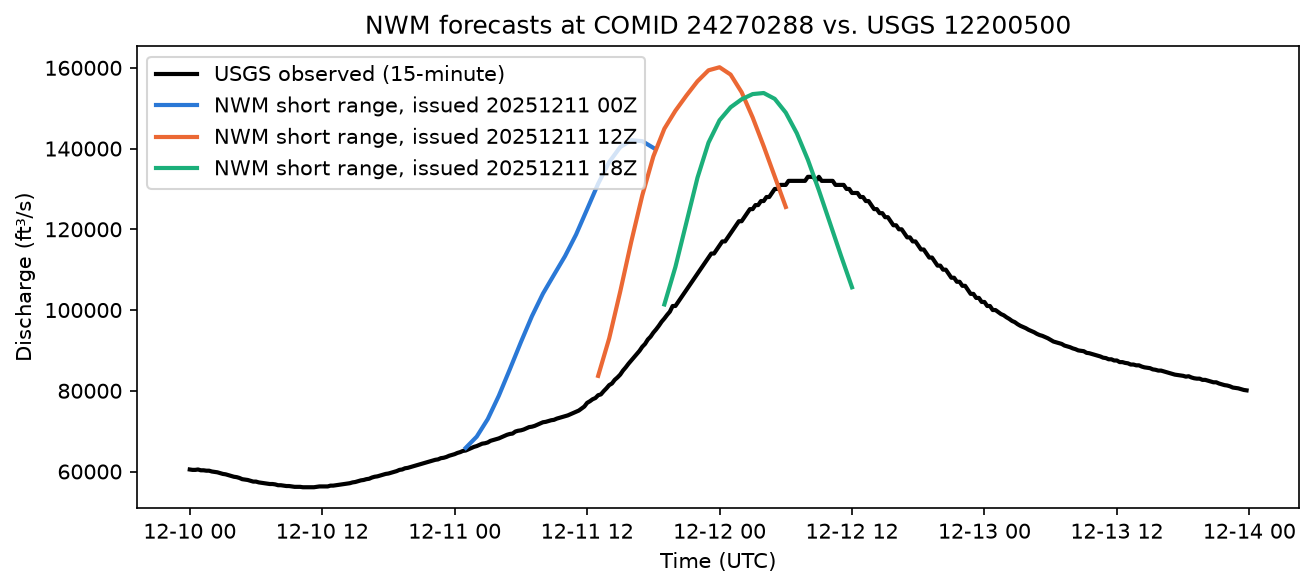
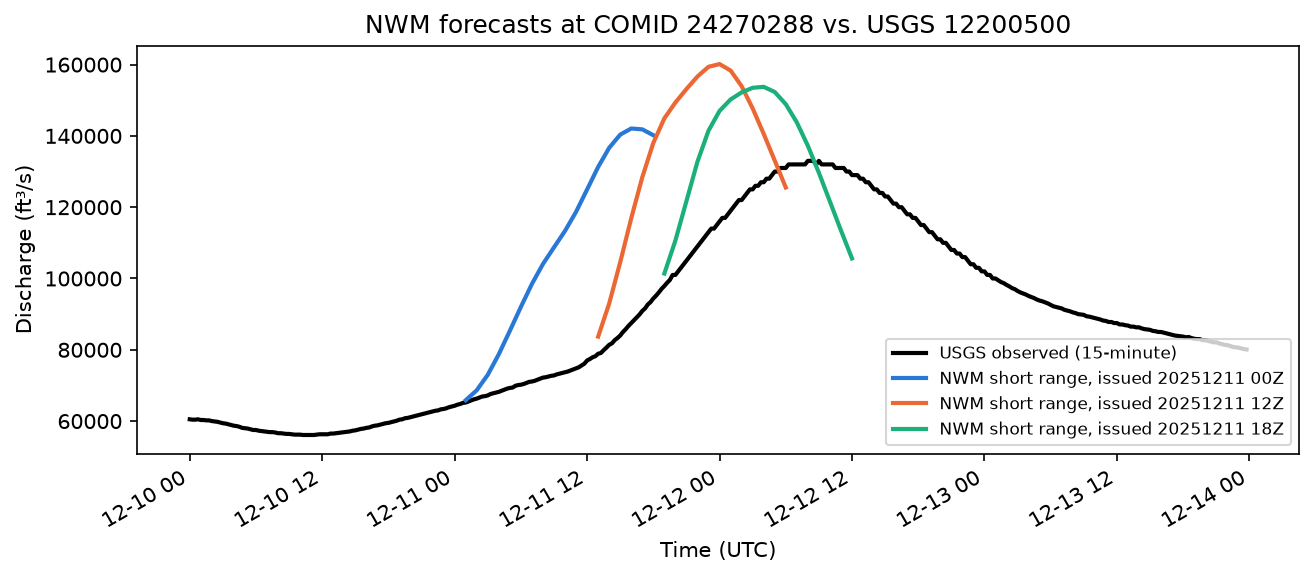
Module 4: fix learner-review blockers and content-review should-fixes

diff --git a/04-federal-water-data-synthesis/02_synthesize_river_data.md b/04-federal-water-data-synthesis/02_synthesize_river_data.md
@@ -4,7 +4,7 @@ One way that these datasets are leveraged to improve hydrologic understanding an
 
 ## Flood event context
 
-We are going to explore a flood from December 2025 in the Skagit River in Washington state. A long-lasting Category 5 atmospheric river brought heavy precipitation to the Pacific Northwest causing widespread flooding (see [more from NASA's Scientific Visualization Studio](https://svs.gsfc.nasa.gov/5596)). On December 12, 2025, the Skagit River near Mt Vernon surpassed a 1990 record peak (Source: [NOAA gauge information](https://water.noaa.gov/gauges/MVEW1)). While our lesson will be focused on exploring the flood through the lens of data, it is important to remember that floods impact real people and can have devastating impacts. The December 2025 Skagit River historic flooding event led to evacuation orders affecting more than 75,000 people in Skagit County (Source: [Northwest Public Broadcasting](https://www.nwpb.org/local/2025-12-11/100-000-evacuated-in-historic-skagit-valley-flood-in-washington-state)), and significantly damaged homes and businesses.
+We are going to explore a flood from December 2025 in the Skagit River in Washington state. A long-lasting Category 5 atmospheric river brought heavy precipitation to the Pacific Northwest causing widespread flooding (see [more from NASA's Scientific Visualization Studio](https://svs.gsfc.nasa.gov/5596)). On December 12, 2025, the Skagit River near Mt Vernon passed its 1990 record crest (stage) (Source: [NOAA gauge information](https://water.noaa.gov/gauges/MVEW1)). While our lesson will be focused on exploring the flood through the lens of data, it is important to remember that floods impact real people and can have devastating impacts. The December 2025 Skagit River historic flooding event led to evacuation orders affecting more than 75,000 people in Skagit County (Source: [Northwest Public Broadcasting](https://www.nwpb.org/local/2025-12-11/100-000-evacuated-in-historic-skagit-valley-flood-in-washington-state)), and significantly damaged homes and businesses.
 
 :::{figure} https://svs.gsfc.nasa.gov/vis/a000000/a005500/a005596/PacificNorthwestFlooding_Dec2025_1920x1080.png
 :alt: Map of the North Pacific from Japan to North America. Water vapor is shaded from blue (dry) to yellow (moist); a labeled "Atmospheric River" band of moist air stretches from the tropics to the coast of Washington and British Columbia. An inset along the coast shades precipitation totals, heaviest (red) over British Columbia and western Washington.
@@ -50,7 +50,7 @@ Each agency describes "the river at Mount Vernon" with its own {term}`location i
 | NOAA | National Water Model ({term}`NWM`) | {term}`feature_id` / {term}`NHDPlus` {term}`COMID` `24270288` | A stream segment (reach) in the NHDPlus network |
 | NASA | SWOT RiverSP | {term}`SWORD` {term}`reach <Reach>` `78310800031` | A ~10 km reach of the SWOT River Database (SWORD) centerline |
 
-Before we start, we write the whole query down in one place: the identifiers, time windows and product choices this page uses. Keeping them in variables, rather than scattered through the code, means you can record exactly what you asked for next to your results, and rerun the analysis for another event by changing one block (Module 1, [reproducibility techniques](../01-data-best-practices/02_data_management.md#reproducibility-techniques)).
+Before we start, we write the whole query down in one place: the identifiers, time windows and product choices this page uses. Keeping them in variables, rather than scattered through the code, means you can record exactly what you asked for next to your results, and see at a glance what to change for another event (Module 1, [reproducibility techniques](../01-data-best-practices/02_data_management.md#reproducibility-techniques)).
 
 ```python
 # The query for this case study, in one place. Save a copy of these values with your results.
@@ -65,7 +65,7 @@ raster_window = ("2025-11-25", "2025-12-20")                                   #
 raster_short_name = "SWOT_L2_HR_Raster_100m_D"                                 # Raster product, 100 m grid, version D
 ```
 
-Nothing is downloaded yet; the sections below explain where each value comes from.
+Nothing is downloaded yet; the sections below explain where each value comes from. A few event-specific details (the 1 December baseline date, the December filters, the Raster tile and the floodplain box) stay in the later blocks, where they are explained; the checklist at the end of the page lists them.
 
 We need to link these identifiers before we can compare anything. We start from the gage because its location is surveyed and fixed. The modernized USGS Water Data API returns the gage's coordinates along with metadata such as drainage area and the vertical datum of the gage.
 
@@ -219,7 +219,8 @@ USGS doesn't measure discharge continuously. It records stage and converts it to
 ```python
 measurements, _ = waterdata.get_field_measurements(monitoring_location_id=site, time=measurement_window)
 q_meas = measurements[measurements["parameter_code"] == "00060"]
-print(q_meas[["time", "time_of_day", "value", "unit_of_measure", "measurement_rated", "observing_procedure"]])
+print(q_meas[["time", "time_of_day", "value", "unit_of_measure", "measurement_rated", "observing_procedure"]]
+      .to_string(index=False))
 ```
 
 Field measurements come back as one row per reading, with gage-height readings and discharge readings from the same `field_visit_id`. `time` holds only the date, and `time_of_day` only the time of day in UTC (for example `17:07:50+00:00`). To place a measurement on a timeline, join the two; converting `time_of_day` on its own would fill in today's date. `measurement_rated` is the hydrographer's rating of the measurement's accuracy (for example `Good` or `Fair`), and `observing_procedure` records how it was made.
@@ -241,6 +242,7 @@ Plot the continuous and daily discharge, with the December field measurement ove
 ```python
 fig, ax = plt.subplots(figsize=(10, 4))
 ax.plot(discharge["time"], discharge["value"], color="#2a78d6", lw=1.5, label="Continuous (15-minute)")
+# Continuous times carry a UTC time zone; daily dates don't, so label them UTC before plotting them together
 ax.step(pd.to_datetime(daily["time"]).dt.tz_localize("UTC"), daily["value"], where="post",
         color="#eb6834", lw=1.5, label="Daily mean")
 dec_meas = q_meas[(q_meas["time"] >= "2025-12-01") & (q_meas["time"] < "2026-01-01")]
@@ -258,15 +260,15 @@ plt.show()
 The plot shows the flood rising from about 14,000 ft³/s in early December, the sharp crest on 12 December and a second, smaller rise around 17 December. The daily mean for 12 December is 112,000 ft³/s. That is well below the 15-minute peak, so daily values understate flood peaks. Daily values are computed over local (Pacific) calendar days, so plotting them at UTC midnight shifts the steps about 8 hours early; that's fine for a quick look.
 
 :::{figure} ../images/m04/synthesize-usgs-hydrograph.png
-:alt: Line chart of discharge at USGS gage 12200500, Skagit River near Mount Vernon, through December 2025. The 15-minute line rises from about 14,000 cubic feet per second in early December to a sharp crest of 133,000 on 12 December, falls, and rises again to a smaller peak around 17 December. Daily-mean steps follow the same shape but peak lower, at 112,000. Black dots mark field measurements, including one of 111,000 cubic feet per second just after the crest.
+:alt: Line chart of discharge at USGS gage 12200500, Skagit River near Mount Vernon, through December 2025. The 15-minute line rises from about 14,000 cubic feet per second in early December to a sharp crest of 133,000 on 12 December, falls, and rises again to a smaller peak around 17 December. Daily-mean steps follow the same shape but peak lower, at 112,000. A black dot marks the one December field measurement, 111,000 cubic feet per second, just after the crest.
 :width: 100%
 
-December 2025 discharge at USGS 12200500, Skagit River near Mount Vernon, WA: 15-minute continuous values, daily means and field measurements. The daily mean flattens the crest, and the highest field measurement sits well below the 15-minute peak. Data: USGS Water Data for the Nation (continuous and daily parameter `00060`, field measurements), all values `Approved`, accessed 2026-10-08.
+December 2025 discharge at USGS 12200500, Skagit River near Mount Vernon, WA: 15-minute continuous values, daily means and field measurements. The daily mean flattens the crest, and the highest field measurement sits well below the 15-minute peak. (The daily line ends with a short vertical drop only because the last daily step has no following day to extend to.) Data: USGS Water Data for the Nation (continuous and daily parameter `00060`, field measurements), all values `Approved`, accessed 2026-10-08.
 :::
 
 ## Looking ahead: forecasts from NOAA NWM
 
-The gage tells us what happened. The National Water Model (NWM) tells us what was *expected* to happen, on every NHDPlus reach, gaged or not. NOAA runs a **short-range** forecast every hour that looks 18 hours ahead. Here we ask: in the day before the crest, what did those forecasts say the Skagit at Mount Vernon would do? (NOAA's [National Water Prediction Service page for MVEW1](https://water.noaa.gov/gauges/MVEW1) shows a different product: the official National Weather Service river forecast for this gauge, issued by the Northwest River Forecast Center, not raw NWM output.)
+The gage tells us what happened. The National Water Model (NWM) tells us what was *expected* to happen, on every NHDPlus reach, gaged or not. NOAA runs a **short-range** forecast every hour that looks 18 hours ahead. Here we ask: in the day before the crest, what did those forecasts say the Skagit at Mount Vernon would do? (NOAA's [National Water Prediction Service page for MVEW1](https://water.noaa.gov/gauges/MVEW1), the National Weather Service's ID for this gauge, shows a different product: the official National Weather Service river forecast for this gauge, issued by the Northwest River Forecast Center, not raw NWM output.)
 
 :::{admonition} Partner review (NOAA): Looking ahead: forecasts from NOAA NWM
 :class: important
@@ -280,12 +282,7 @@ Confirm this description of the NWPS gauge forecast vs. NWM.
 The 235 MB and 7× figures match 03/02 on `dev` (2026-10-08). Lane B is rebuilding 03/02 in Phase 6; recheck these figures, and link the access-route section directly once its heading is final.
 :::
 
-The first block builds references for three short-range forecasts (the `short_range` {term}`configuration <Configuration>`) issued on 11 December, at 00Z, 12Z and 18Z (UTC): the `nwm_issue_times` from the query block. Each issue time is a {term}`forecast reference time <Forecast reference time>`. Only the 18Z forecast's 18-hour window reaches past the crest. As in Module 3, CIROH's [`nwmurl`](https://hub.ciroh.org/docs/products/data-management/dataaccess/NWMURL%20Library) library builds the public HTTPS address of each hourly file, and building references reads about 1 MB of metadata from each of the 18 files per forecast. In our test all three took about 15 seconds together.
-
-:::{admonition} TODO (dev team): Re-time the forecast build
-:class: attention
-Timing depends on the connection; re-time before publishing.
-:::
+The first block builds references for three short-range forecasts (the `short_range` {term}`configuration <Configuration>`) issued on 11 December, at 00Z, 12Z and 18Z (Z means UTC): the `nwm_issue_times` from the query block. Each issue time is a {term}`forecast reference time <Forecast reference time>`. We chose three issue times spread across the day before the crest, so you can see how the forecast changed as the flood approached; only the 18Z forecast's 18-hour window reaches past the crest. As in Module 3, CIROH's [`nwmurl`](https://hub.ciroh.org/docs/products/data-management/dataaccess/NWMURL%20Library) library builds the public HTTPS address of each hourly file, and building references reads about 1 MB of metadata from each of the 18 files per forecast. In our test (2026-10-08, home connection) all three took about 20 seconds together; expect it to vary with your connection.
 
 ```python
 import fsspec
@@ -354,13 +351,15 @@ obs = discharge.set_index("time")["value"]["2025-12-10":"2025-12-13"]
 ax.plot(obs.index, obs.values, "k", lw=2, label="USGS observed (15-minute)")
 forecast_colors = ["#2a78d6", "#eb6834", "#1baf7a"]  # one color per issue time, in order
 for (issued, series), color in zip(forecasts.items(), forecast_colors):
+    # NWM valid times are UTC but carry no time zone; label them so they line up with the USGS times
     ax.plot(series.index.tz_localize("UTC"), series.values, color=color, lw=2,
             label=f"NWM short range, issued {issued}")
 
 ax.set_ylabel("Discharge (ft³/s)")
 ax.set_xlabel("Time (UTC)")
 ax.set_title(f"NWM forecasts at COMID {comid} vs. USGS 12200500")
-ax.legend()
+ax.legend(loc="lower right", fontsize=8)
+fig.autofmt_xdate()
 plt.show()
 ```
 
@@ -411,7 +410,7 @@ Before using any values, decide which passes to trust. RiverSP gives three quali
   - **1 = suspect:** "may have large errors"
   - **2 = degraded:** "very likely do have large errors"
   - **3 = bad:** may be nonsensical and "should be ignored"
-- **`reach_q_b`**, an "expert" bit flag recording *why* `reach_q` is set (p. 28; bit names and values on pp. 60–61, details in Appendix C). For example, bit 2048 is `few_wse_observations`, 32768 is `partially_observed` and 262144 is `classification_qual_degraded`. Any bit at or above 262144 makes the pass at least degraded.
+- **`reach_q_b`**, an "expert" bit flag recording *why* `reach_q` is set (p. 28; bit names and values on pp. 60–61, details in Appendix C). For example, bit 2048 is `few_wse_observations`, 32768 is `partially_observed` and 262144 is `classification_qual_degraded`. The flag value is a sum of powers of two, one per problem, so `value & bit` is nonzero when that problem is present. Any bit at or above 262144 makes the pass at least degraded.
 - **`wse_u`**: the total (random plus systematic) uncertainty of the reach WSE in meters (p. 22).
 
 How many December passes would each threshold keep? The cross-tabulation below counts reach-passes by `reach_q`:
@@ -443,7 +442,7 @@ swot = swot[swot["reach_q"] <= 2]
 print(swot.pivot_table(index=swot["time"].dt.strftime("%Y-%m-%d %H:00"), columns="reach_id", values="wse"))
 ```
 
-`wse` is in meters above the EGM2008 geoid (PDD p. 29) and `width` is in meters. The pivot shows five December passes over these reaches: 1 Dec, 4 Dec, **12 Dec at 09:00 UTC (one hour after the crest)**, 22 Dec and 25 Dec. On 12 December only the two downstream reaches were observed. Reach `…031`, where the gage sits, has no data for that pass. On 4 December, reach `…031` reports 17.3 m, up from 5.5 m three days earlier, while the gage was still at baseflow. Its `reach_q` is 2, the same as most of the good-looking passes, so the summary flag alone can't separate it. The other two fields can. A few `reach_q_b` bits, decoded:
+`wse` is in meters above the EGM2008 geoid (PDD p. 29) and `width` is in meters. The pivot covers the whole `swot_window` (November to mid-January); this lesson focuses on December. (The 29.5 m value for `…021` on 2 January is another implausible degraded value, outside our window.) The pivot shows five December passes over these reaches: 1 Dec, 4 Dec, **12 Dec at 09:00 UTC (one hour after the crest)**, 22 Dec and 25 Dec. On 12 December only the two downstream reaches were observed. Reach `…031`, where the gage sits, has no data for that pass. On 4 December, reach `…031` reports 17.3 m, up from 5.5 m three days earlier, while the gage was still at baseflow. Its `reach_q` is 2, the same as most of the good-looking passes, so the summary flag alone can't separate it. The other two fields can. A few `reach_q_b` bits, decoded:
 
 ```python
 reach_q_bits = {2048: "few_wse_observations", 32768: "partially_observed",
@@ -474,6 +473,7 @@ Because SWOT WSE and USGS gage height use different vertical references, we comp
 ```python
 stage_series = stage.set_index("time")["value"].sort_index() * 0.3048  # feet to meters
 def stage_at(t):
+    """Return the gage height (m) at the 15-minute timestamp nearest to time t."""
     return stage_series.iloc[stage_series.index.get_indexer([t], method="nearest")[0]]
 
 baseline = swot[swot["time"].dt.strftime("%Y-%m-%d") == "2025-12-01"].set_index("reach_id")["wse"]
@@ -512,7 +512,7 @@ plt.show()
 Change in water level since the 1 December 2025 SWOT pass: USGS gage height (line) and SWOT RiverSP reach water surface elevation (points, error bars = `wse_u`). Points close to the line agree with the gage; the 4 and 25 December outliers are the passes flagged `few_wse_observations`. Data: SWOT RiverSP Version D via PO.DAAC `hydrocron` (`reach_q` ≤ 2); USGS Water Data for the Nation gage height (`00065`, `Approved`). Accessed 2026-10-08.
 :::
 
-Near the peak, the gage had risen 7.2 m since 1 December. SWOT saw the reach just downstream (`…021`) up 6.0 m and the reach at the river mouth (`…015`) up 3.1 m. The rise shrinks toward Skagit Bay, where the tide sets the water level. On 22 December the gage's reach (`…031`) and the next reach down (`…021`) agree with the gage within about 0.2 m (+2.5 and +2.4 m vs. +2.5 m). On 25 December they don't: both reaches read about 2 m higher than the gage's change. Those are the passes flagged `few_wse_observations` (and `partially_observed`), and the gage reach's `wse_u` (0.32 m) is about three times its usual value. Treat single degraded values with caution, and let `wse_u` and `reach_q_b` tell you which ones to doubt first. RiverSP is a good record of *how high* the river got, along the whole river and not just at the gage. What it can't tell us is *where the water went* once it left the channel. RiverSP reports one value per fixed SWORD reach.
+Near the peak, the gage had risen 7.2 m since 1 December. SWOT saw the reach just downstream (`…021`) up 6.0 m and the reach at the river mouth (`…015`) up 3.1 m. The rise shrinks toward Skagit Bay, where the tide sets the water level. On 22 December the gage's reach (`…031`) and the next reach down (`…021`) agree with the gage within about 0.2 m (+2.5 and +2.4 m vs. +2.5 m). On 25 December they don't: both reaches read about 2 m higher than the gage's change. Those are the passes flagged `few_wse_observations` (and `partially_observed`), and the gage reach's `wse_u` (0.32 m) is about three times its usual value. Treat single degraded values with caution, and let `wse_u` and `reach_q_b` tell you which ones to doubt first. Note what the error bars in the plot are *not*: `wse_u` is the product's own error estimate, and on degraded passes the actual error can be many times larger (the 4 December point is about 12 m off with a `wse_u` of 0.66 m). Treat an unusually large `wse_u` as a warning sign, not as the size of the error. RiverSP is a good record of *how high* the river got, along the whole river and not just at the gage. What it can't tell us is *where the water went* once it left the channel. RiverSP reports one value per fixed SWORD reach.
 
 :::{admonition} Partner review (NASA): River water surface elevation through the event (RiverSP)
 :class: important
@@ -547,7 +547,7 @@ peak = xr.open_dataset([f for f in files if "20251212T" in str(f)][0])
 print(peak[["water_frac", "water_area", "water_area_qual", "wse", "wse_qual"]])
 ```
 
-Each granule is a ~1,600 × 1,600 grid in UTM zone 10N meters (`x`, `y`). `water_frac` is the fraction of each 100 m cell covered by water (unitless), `water_area` is water area in m², and `water_area_qual` is the data quality flag for both (0 good, 1 suspect, 2 degraded, 3 bad); `wse` and its flag `wse_qual` work the same way for water surface elevation. Next we subset to the delta farmland west of Mount Vernon, keep cells that are good or suspect in *both* passes, and count cells that are more than half water:
+Each granule is a ~1,600 × 1,600 grid in UTM zone 10N meters (`x`, `y`). `water_frac` is the fraction of each 100 m cell covered by water (unitless), `water_area` is water area in m², and `water_area_qual` is the data quality flag for both (0 good, 1 suspect, 2 degraded, 3 bad); `wse` and its flag `wse_qual` work the same way for water surface elevation. The near-peak pass stops about 4 km west of Mount Vernon (see the results below), so we look at the part of the floodplain both passes saw: a box of delta farmland west of the gage. We keep cells that are good or suspect in *both* passes, and count cells that are more than half water:
 
 ```python
 import pyproj
@@ -574,20 +574,23 @@ Map water fraction for the two passes, showing only cells that are good or suspe
 ```python
 fig, axes = plt.subplots(1, 2, figsize=(11, 5), sharey=True)
 for ax, ds, title in [(axes[0], b, "1 Dec 2025 (before)"), (axes[1], p, "12 Dec 2025 09:00 UTC (near peak)")]:
-    ds["water_frac"].where(good).clip(0, 1).plot(ax=ax, vmin=0, vmax=1, cmap="Blues",
-                                                 cbar_kwargs={"label": "Water fraction"})
+    # Express the grid as km east/north of the gage, which is easier to read than raw UTM meters
+    km = ds["water_frac"].where(good).assign_coords(x=(ds["x"] - gage_x) / 1000, y=(ds["y"] - gage_y) / 1000)
+    km.clip(0, 1).plot(ax=ax, vmin=0, vmax=1, cmap="Blues", cbar_kwargs={"label": "Water fraction"})
+    ax.set_facecolor("#b8b6ae")  # grey = cells masked out (not good or suspect in both passes)
     ax.set_title(title)
+    ax.set_xlabel("km east of the gage (negative = west)")
+    ax.set_ylabel("km north of the gage")
     ax.set_aspect("equal")
-    ax.xaxis.set_major_locator(plt.MaxNLocator(4))  # fewer easting labels, so they don't overlap
 
 plt.show()
 ```
 
 :::{figure} ../images/m04/synthesize-swot-water-extent.png
-:alt: Two side-by-side maps of SWOT water fraction over the Skagit delta west of Mount Vernon, on 1 December 2025 (before the flood) and 12 December 2025 at 09:00 UTC (near the peak). Dark blue cells are mostly water and pale cells mostly land; blank areas are cells that were not good or suspect in both passes. Open water in the bays to the north and southwest and the river channels look nearly the same in both maps, with no broad new area of water on the farmland.
+:alt: Two side-by-side maps of SWOT water fraction over the Skagit delta west of Mount Vernon, on 1 December 2025 (before the flood) and 12 December 2025 at 09:00 UTC (near the peak). Dark blue cells are mostly water and white cells mostly land; grey cells were masked out because they were not good or suspect in both passes, and they cover about two thirds of the box. Axes are kilometers from the gage, which lies 2 km east of the box's right edge. Open water in the bays to the north and southwest and the river channels look nearly the same in both maps, with no broad new area of water on the farmland.
 :width: 100%
 
-SWOT Raster water fraction over the Skagit delta before the flood and about one hour after the crest, showing only cells whose `water_area_qual` is good or suspect in both passes. Data: SWOT Level 2 KaRIn high-rate Raster, 100 m, Version D (`SWOT_L2_HR_Raster_100m_D`) via `earthaccess`, accessed 2026-10-08.
+SWOT Raster water fraction over the Skagit delta before the flood and about one hour after the crest, showing only cells whose `water_area_qual` is good or suspect in both passes; grey cells are masked, not dry. Axes are kilometers from the gage (which is just east of the box). Data: SWOT Level 2 KaRIn high-rate Raster, 100 m, Version D (`SWOT_L2_HR_Raster_100m_D`) via `earthaccess`, accessed 2026-10-08.
 :::
 
 The results are a lesson in what a single satellite pass can and can't show:
@@ -641,8 +644,19 @@ Tighten prose.
 
 - **USGS** gives the most reliable, highest-frequency record *at a point*: the crest timing (08:00–08:15 UTC on 12 Dec), stage and discharge. Its field measurements show how far the flood peak was extrapolated beyond direct measurement.
 - **NOAA NWM** short-range forecasts gave many hours' warning of an exceptional flood. At this reach they ran high and early, peaking at 142,000–160,000 ft³/s against an observed 133,000. They cover every reach, including reaches with no gage, and past forecasts can be read cheaply from the cloud with kerchunk references.
-- **NASA SWOT** adds a spatial view. RiverSP's WSE changes matched the gage's rise and showed it shrinking toward the bay. The Raster product can map water extent, but only when a pass lines up with the flood. Here the one near-peak pass stopped short of Mount Vernon.
+- **NASA SWOT** adds a spatial view. On the passes not flagged `few_wse_observations`, RiverSP's WSE changes matched the gage and showed the rise shrinking toward the bay; the gage's own reach was not observed at the peak. The Raster product can map water extent, but only when a pass lines up with the flood. Here the one near-peak pass stopped short of Mount Vernon.
 - Linking the products takes deliberate work: three location identifiers (gage ID, COMID, SWORD reach), different vertical references (gage datum vs. geoid), different time steps (15-minute, hourly forecasts, a few passes per cycle) and different data quality flags. Each product fills gaps the others leave.
+
+### Adapting this case study to another river
+
+The query block holds the main choices, but a new event needs a few more decisions. In order:
+
+1. **Find the gage** and set `site` and the USGS windows. Check `approval_status`: a recent event will be provisional.
+2. **Get the COMID** from the NLDI (the `getfeature_byid` block needs no changes).
+3. **Find the SWORD reaches** near the gage: [SWORD Explorer](https://www.swordexplorer.com/), SWOTViz (see [Additional Federal water data](03_additional_data.md)) or the reach-finding steps in [Retrieve NASA SWOT data](../03-federal-water-data-access-retrieval/01_access_nasa_swot.md). Then confirm them with the study-area map.
+4. **Check that SWOT passes exist** before and during the event, and change the baseline date (`"2025-12-01"`) and the December filters in the SWOT blocks to match.
+5. **For the Raster**, change the tile filter (`"_UTM10U_"`, the UTM zone and latitude band of your river), the two file dates and the `delta` box.
+6. **For NWM**, pick `nwm_issue_times` before your crest and change the observation window in the forecast plot. Past events come from the cloud archive, as here; for the last few days, the NOAA NWM API is simpler ([Retrieve NOAA NWM data](../03-federal-water-data-access-retrieval/02_access_noaa_nwm.md)).
 
 ## Further reading
 

diff --git a/04-federal-water-data-synthesis/03_additional_data.md b/04-federal-water-data-synthesis/03_additional_data.md
@@ -35,7 +35,7 @@ for g in sos:
     print(g["umm"]["GranuleUR"], round(g.size / 1024, 1), "GB")  # g.size is in MB
 ```
 
-```
+```text
 na_sword_v16_SOS_results_unconstrained_20230502T204408_20250502T204408_20251219T163700 9.2 GB
 af_sword_v16_SOS_results_unconstrained_20230502T204408_20250502T204408_20251219T163700 4.1 GB
 eu_sword_v16_SOS_results_unconstrained_20230502T204408_20250502T204408_20251219T163700 6.9 GB
@@ -44,11 +44,11 @@ as_sword_v16_SOS_results_unconstrained_20230502T204408_20250502T204408_20251219T
 oc_sword_v16_SOS_results_unconstrained_20230502T204408_20250502T204408_20251219T163700 1.9 GB
 ```
 
-Two things to notice before you download:
+Three things to notice before you download:
 
 - **One file per continent, and they are large.** The North America file alone is about 9 GB, and Asia's about 27 GB. If you work outside the cloud, read only the groups and reaches you need (see the notebooks below), or work on a cloud JupyterHub in AWS `us-west-2`.
 - **Know what is inside.** Each file is NetCDF with one group per algorithm (plus the priors and validation data), indexed by SWORD `reach_id`, with discharge in m³/s. `unconstrained` in the name means the algorithms ran without using gage data; Module 2 describes the gauge-constrained alternative.
-- **Check the time period and version.** These Version 3 files cover May 2023 to May 2025 (it's in the file name), so they do not include the December 2025 Skagit flood used in this module. `hydrocron` can also return SoS discharge fields (for example `sos_consensus_q`) for a single reach, using `collection_name=SWOT_L2_HR_RiverSP_2.0` ([Hydrocron timeseries docs](https://podaac.github.io/hydrocron/timeseries)). Cite the collection by its DOI ([10.5067/SWOT-SOS-RD3](https://doi.org/10.5067/SWOT-SOS-RD3)), and record the collection short name (it carries the version) and the file name with any SoS results, since each new version reprocesses the whole record.
+- **Check the time period and version.** These Version 3 files cover May 2023 to May 2025 (it's in the file name), so they do not include the December 2025 Skagit flood used in this module. `hydrocron` can also return SoS discharge fields (for example `sos_consensus_q`) for a single reach, using `collection_name=SWOT_L2_HR_RiverSP_2.0` ([Hydrocron timeseries docs](https://podaac.github.io/hydrocron/timeseries)). That is the Version C collection, a different version from the Version D data in the case study, so don't mix values from the two without checking. Cite the collection by its DOI ([10.5067/SWOT-SOS-RD3](https://doi.org/10.5067/SWOT-SOS-RD3)), and record the collection short name (it carries the version) and the file name with any SoS results, since each new version reprocesses the whole record.
 
 :::{admonition} Partner review (NASA): NASA SWOT discharge: the SWORD of Science (SoS)
 :class: important
@@ -84,14 +84,16 @@ print(aorc.sizes, aorc.time.values[[0, -1]])
 
 # The grid is Lambert Conformal Conic; convert the gage location into grid coordinates
 lcc = pyproj.CRS.from_proj4(aorc["RAINRATE"].attrs["proj4"])
-x, y = pyproj.Transformer.from_crs("EPSG:4326", lcc, always_xy=True).transform(-122.3354, 48.4448)
+# USGS 12200500 (Skagit River near Mount Vernon), from its USGS monitoring-location record
+gage_lon, gage_lat = -122.3354, 48.4448
+x, y = pyproj.Transformer.from_crs("EPSG:4326", lcc, always_xy=True).transform(gage_lon, gage_lat)
 
 rain = aorc["RAINRATE"].sel(x=x, y=y, method="nearest").sel(time=slice("2022-12-01", "2022-12-31"))
 mm_per_hour = (rain * 3600).load()  # RAINRATE is in mm/s
 print(mm_per_hour.size, "hours, total", round(float(mm_per_hour.sum()), 1), "mm")
 ```
 
-```
+```text
 Frozen({'time': 385704, 'y': 3840, 'x': 4608}) ['1979-02-01T00:00:00.000000000' '2023-01-31T23:00:00.000000000']
 744 hours, total 151.1 mm
 ```

diff --git a/04-federal-water-data-synthesis/00_introduction.md b/04-federal-water-data-synthesis/00_introduction.md
@@ -5,7 +5,7 @@ Hydrologic systems are extremely complex. Accurate information is critical for m
 The module has three lessons:
 
 1. **[Comparative overview](01_comparative_overview.md):** how NASA Surface Water and Ocean Topography (SWOT) observations, NOAA National Water Model (NWM) output and USGS Water Data for the Nation (WDFN) observations differ in spatial coverage, temporal availability and accuracy, and what each agency recommends about using its data.
-2. **[Synthesizing Federal data products](02_synthesize_river_data.md):** a case study of the **December 2025 Skagit River flood** in Washington. An atmospheric river drove the river near Mount Vernon (USGS 12200500) to a record peak. We look at the flood from the ground (USGS gage observations and field measurements), ahead in time (NWM forecasts issued as the flood approached), and from above (SWOT water surface elevation and water extent). This lesson tells the story in the order you would meet the flood, so unlike the rest of the course it starts with USGS.
+2. **[Synthesizing Federal data products](02_synthesize_river_data.md):** a case study of the **December 2025 Skagit River flood** in Washington. An atmospheric river drove the river near Mount Vernon (USGS 12200500) to a record crest (the highest stage on record). We look at the flood from the ground (USGS gage observations and field measurements), ahead in time (NWM forecasts issued as the flood approached), and from above (SWOT water surface elevation and water extent). This lesson tells the story in the order you would meet the flood, so unlike the rest of the course it starts with USGS.
 
 3. **[Additional Federal water data](03_additional_data.md):** a pointer to SWOTViz, a CUAHSI browser viewer for SWOT data, then short tours of related products (SWOT discharge, AORC precipitation and the NextGen hydrofabric) and where to go next.
 

diff --git a/04-federal-water-data-synthesis/01_comparative_overview.md b/04-federal-water-data-synthesis/01_comparative_overview.md
@@ -101,7 +101,7 @@ Verify RiverSP latency.
 
 Sources: Module 2 agency pages, [NOAA OWP](https://water.noaa.gov/about/nwm), and the Module 3 lessons.
 
-## Data Providers Recommendations
+## Data provider recommendations
 
 Each agency publishes guidance on how its data should and should not be used. The recommendations below are drafted from those sources, each one linked to its source, and are waiting for confirmation from the agencies.
 
